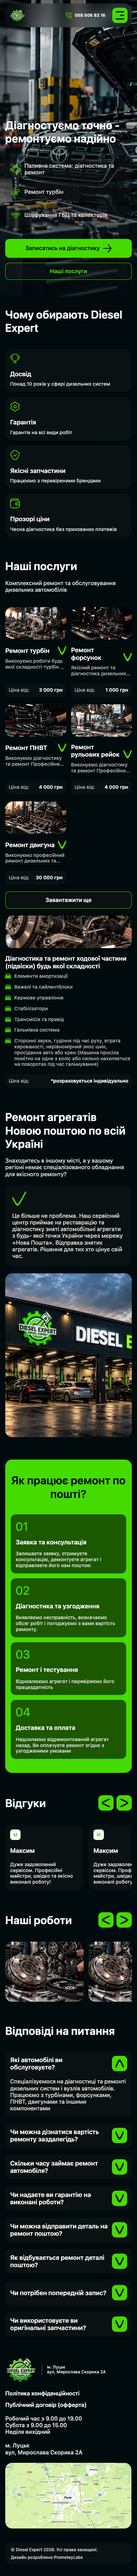
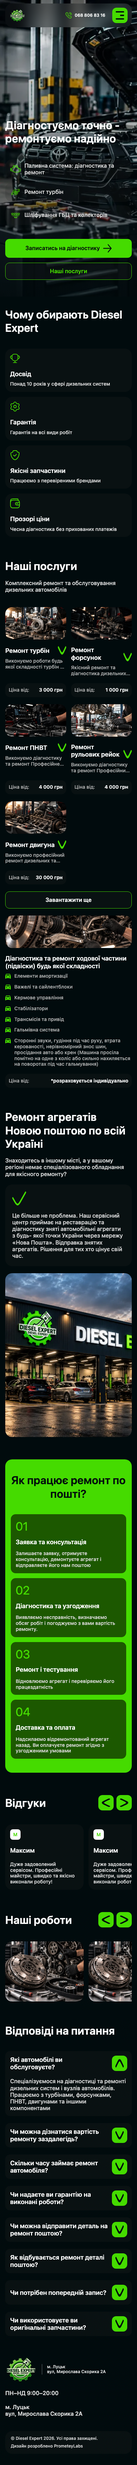
chore(screens): refresh after footer schedule
Перезнято home 1440/768/393, menu-open-393, modal-booking-1440 після 354107d (ПН–НД 9:00–20:00 у футері).

diff --git a/docs/screens/README.md b/docs/screens/README.md
@@ -2,10 +2,10 @@
 
 Знято з локального `runserver` (Playwright, Chrome). `home-*` — повна сторінка.
 
+Оновлено після `354107d` (графік у футері «ПН–НД 9:00–20:00», без карти).
+
 - `home-1440.png` — desktop 1440
 - `home-768.png` — tablet 768
 - `home-393.png` — mobile 393
 - `menu-open-393.png` — відкрите мобільне меню
 - `modal-booking-1440.png` — модалка запису
-
-Перезняти може оркестратор після змін верстки.
